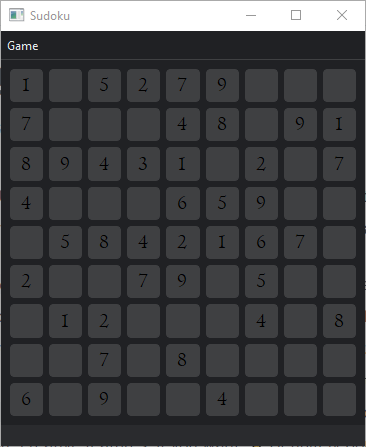
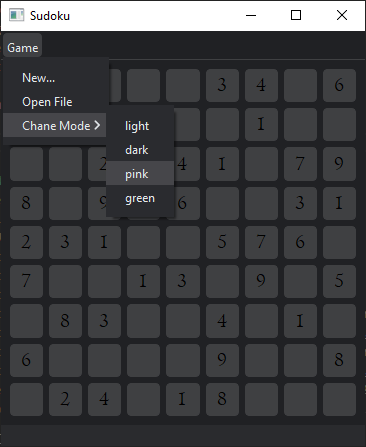
check function

diff --git a/PyLearnGUISudocu/main.py b/PyLearnGUISudocu/main.py
@@ -9,10 +9,6 @@ from main_window import Ui_MainWindow
 from sudoku import Sudoku
 import qdarktheme
 
-# customtkinter.set_appearance_mode("System")  # Modes: system (default), light, dark
-# customtkinter.set_default_color_theme("blue")  # Themes: blue (default), dark-blue, green
-# sys.argv += ['-platform', 'windows:darkmode=2']
-
 class MainWindow(QMainWindow):
     def __init__(self):
         super().__init__()
@@ -25,12 +21,15 @@ class MainWindow(QMainWindow):
         self.ui.actionlight.triggered.connect(partial(self.setColor,'light','black'))
         self.ui.actiondark.triggered.connect(partial(self.setColor,'black'))
         self.line_edits = [[None for i in range(9)]for j in range(9)]
+        self.editableCells = []
         self.picking_boxes()
         self.new_game()
+        self.them = 'light'
         self.checkable = True
         qdarktheme.setup_theme("light")
 
     def setColor(self, color, textColor = 'black'):
+        self.them = color
         if color == 'black':
             qdarktheme.setup_theme("dark")
         else:
@@ -39,10 +38,18 @@ class MainWindow(QMainWindow):
             for i in range(9):
                 for j in range(9):
                     self.line_edits[i][j].setStyleSheet(f'color: {textColor}')
+        # self.check()
+    
+    def resetColor(self):
+        self.setStyleSheet('')
+        for i in range(9):
+            for j in range(9):
+                self.line_edits[i][j].setStyleSheet('')
 
     def open_file(self):
         file_path = QFileDialog.getOpenFileName(self, 'Open file...')[0]
         # print(file_path)
+        self.editableCells.clear()
         f = open(file_path, 'r')
         big_text = f.read()
         rows = big_text.split('\n')
@@ -56,6 +63,7 @@ class MainWindow(QMainWindow):
         for i in range(9):
             for j in range(9):
                 if puzzle_board[i][j] != 0:
+                    self.editableCells.append([i,j])
                     self.line_edits[i][j].setText(str(puzzle_board[i][j]))
                     self.line_edits[i][j].setReadOnly(True)
                 else:
@@ -63,20 +71,57 @@ class MainWindow(QMainWindow):
                     self.line_edits[i][j].setReadOnly(False)
         self.checkable = True
 
-    def check(self):
-        for i in range(0, 9):
-            for j in range(0, 9):
-                number1 = self.line_edits[i][0].text()
-                number2 = self.line_edits[i][j].text()
-                if number1 == number2:
-                    print('❌')
-                    return False
+    def setCellFalse(self,row,col):
+        if [row,col] in self.editableCells:
+            self.line_edits[row][col].setStyleSheet('background-color: pink')
+        else:
+            self.line_edits[row][col].setStyleSheet('background-color: red')
+
+    def check(self,i=-1,j=-1):
+        output = True
+        self.resetColor()
+        for row in range(9):
+            for col in range(9):
+                number1 = self.line_edits[row][col].text()
+                for row9 in range(row+1,9):
+                    number2 = self.line_edits[row9][col].text()
+                    if number1 == number2 and number2 != '':
+                        self.setCellFalse(row,col)
+                        self.setCellFalse(row9,col)
+                        # print(f'❌ row: {row}, col: {col}, row9: {row9}, number1: {number1}, number2: {number2}')
+                        output = False
+
+                for col9 in range(col+1,9):
+                    number2 = self.line_edits[row][col9].text()
+                    if number1 == number2 and number2 != '':
+                        self.setCellFalse(row,col)
+                        self.setCellFalse(row,col9)
+                        # print(f'❌ row: {row}, col: {col}, row9: {row9}, number1: {number1}, number2: {number2}')
+                        output = False
+
+        for n in range(0, 9, 3):
+            for m in range(0, 9, 3):
+                for row in range(n, n + 3):
+                    for col in range(m, m + 3):
+                        number1 = self.line_edits[row][col].text()
+                        for row3 in range(n, n + 3):
+                            for col3 in range(m, m +3):
+                                number2 = self.line_edits[row3][col3].text()
+                                if number1 == number2 and number2 != '' and not (row == row3 and col == col3):
+                                    self.setCellFalse(row,col)
+                                    self.setCellFalse(row3,col3)
+                                    print(f'❌ row: {row}, col: {col}, row3: {row3}, col3: {col3},number1: {number1}, number2: {number2}')
+                                    output = False
+
+
+
+        return output
 
     def validation(self, i, j, text):
         if self.checkable:
             if text not in ['1','2','3','4','5','6','7','8','9']:
                 self.line_edits[i][j].setText('')
-            if self.check():
+            if self.check(i,j):
                 msg_box = ...
 
     def picking_boxes(self, color = 'black'):
@@ -94,10 +139,12 @@ class MainWindow(QMainWindow):
 
     def new_game(self):
         self.checkable = False
+        self.editableCells.clear()
         puzzle = Sudoku(3, seed= random.randint(1, 1000)).difficulty(0.5)
         for i in range(9):
             for j in range(9):
                 if puzzle.board[i][j] is not None:
+                    self.editableCells.append([i,j])
                     self.line_edits[i][j].setText(str(puzzle.board[i][j]))
                     self.line_edits[i][j].setReadOnly(True)
                 else:
